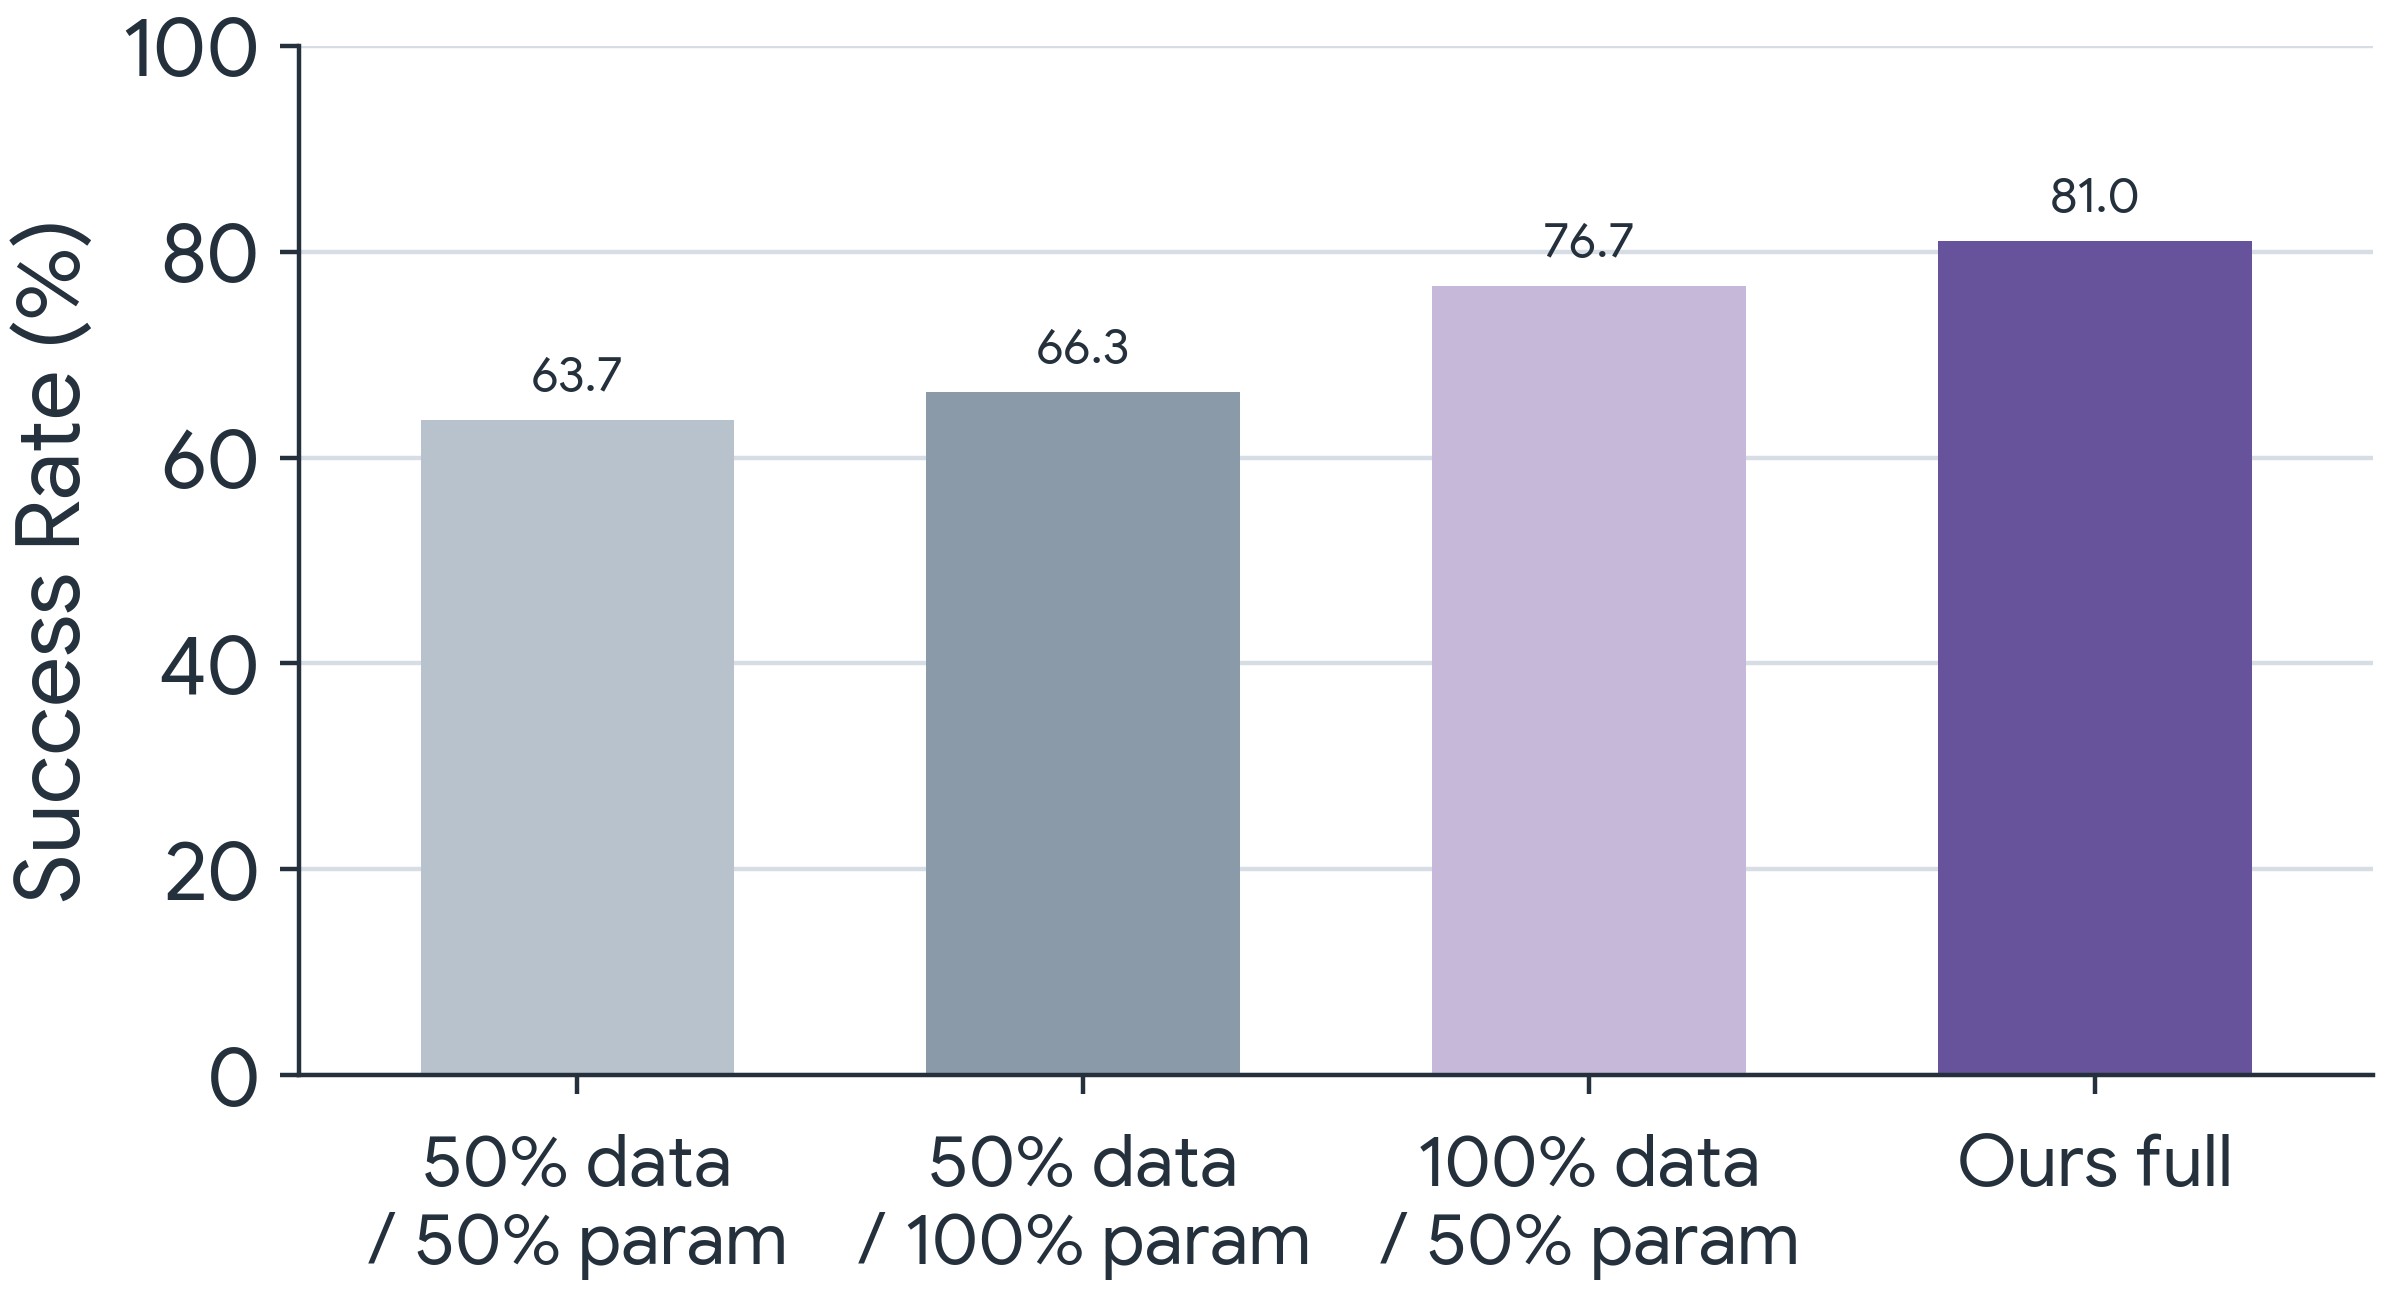
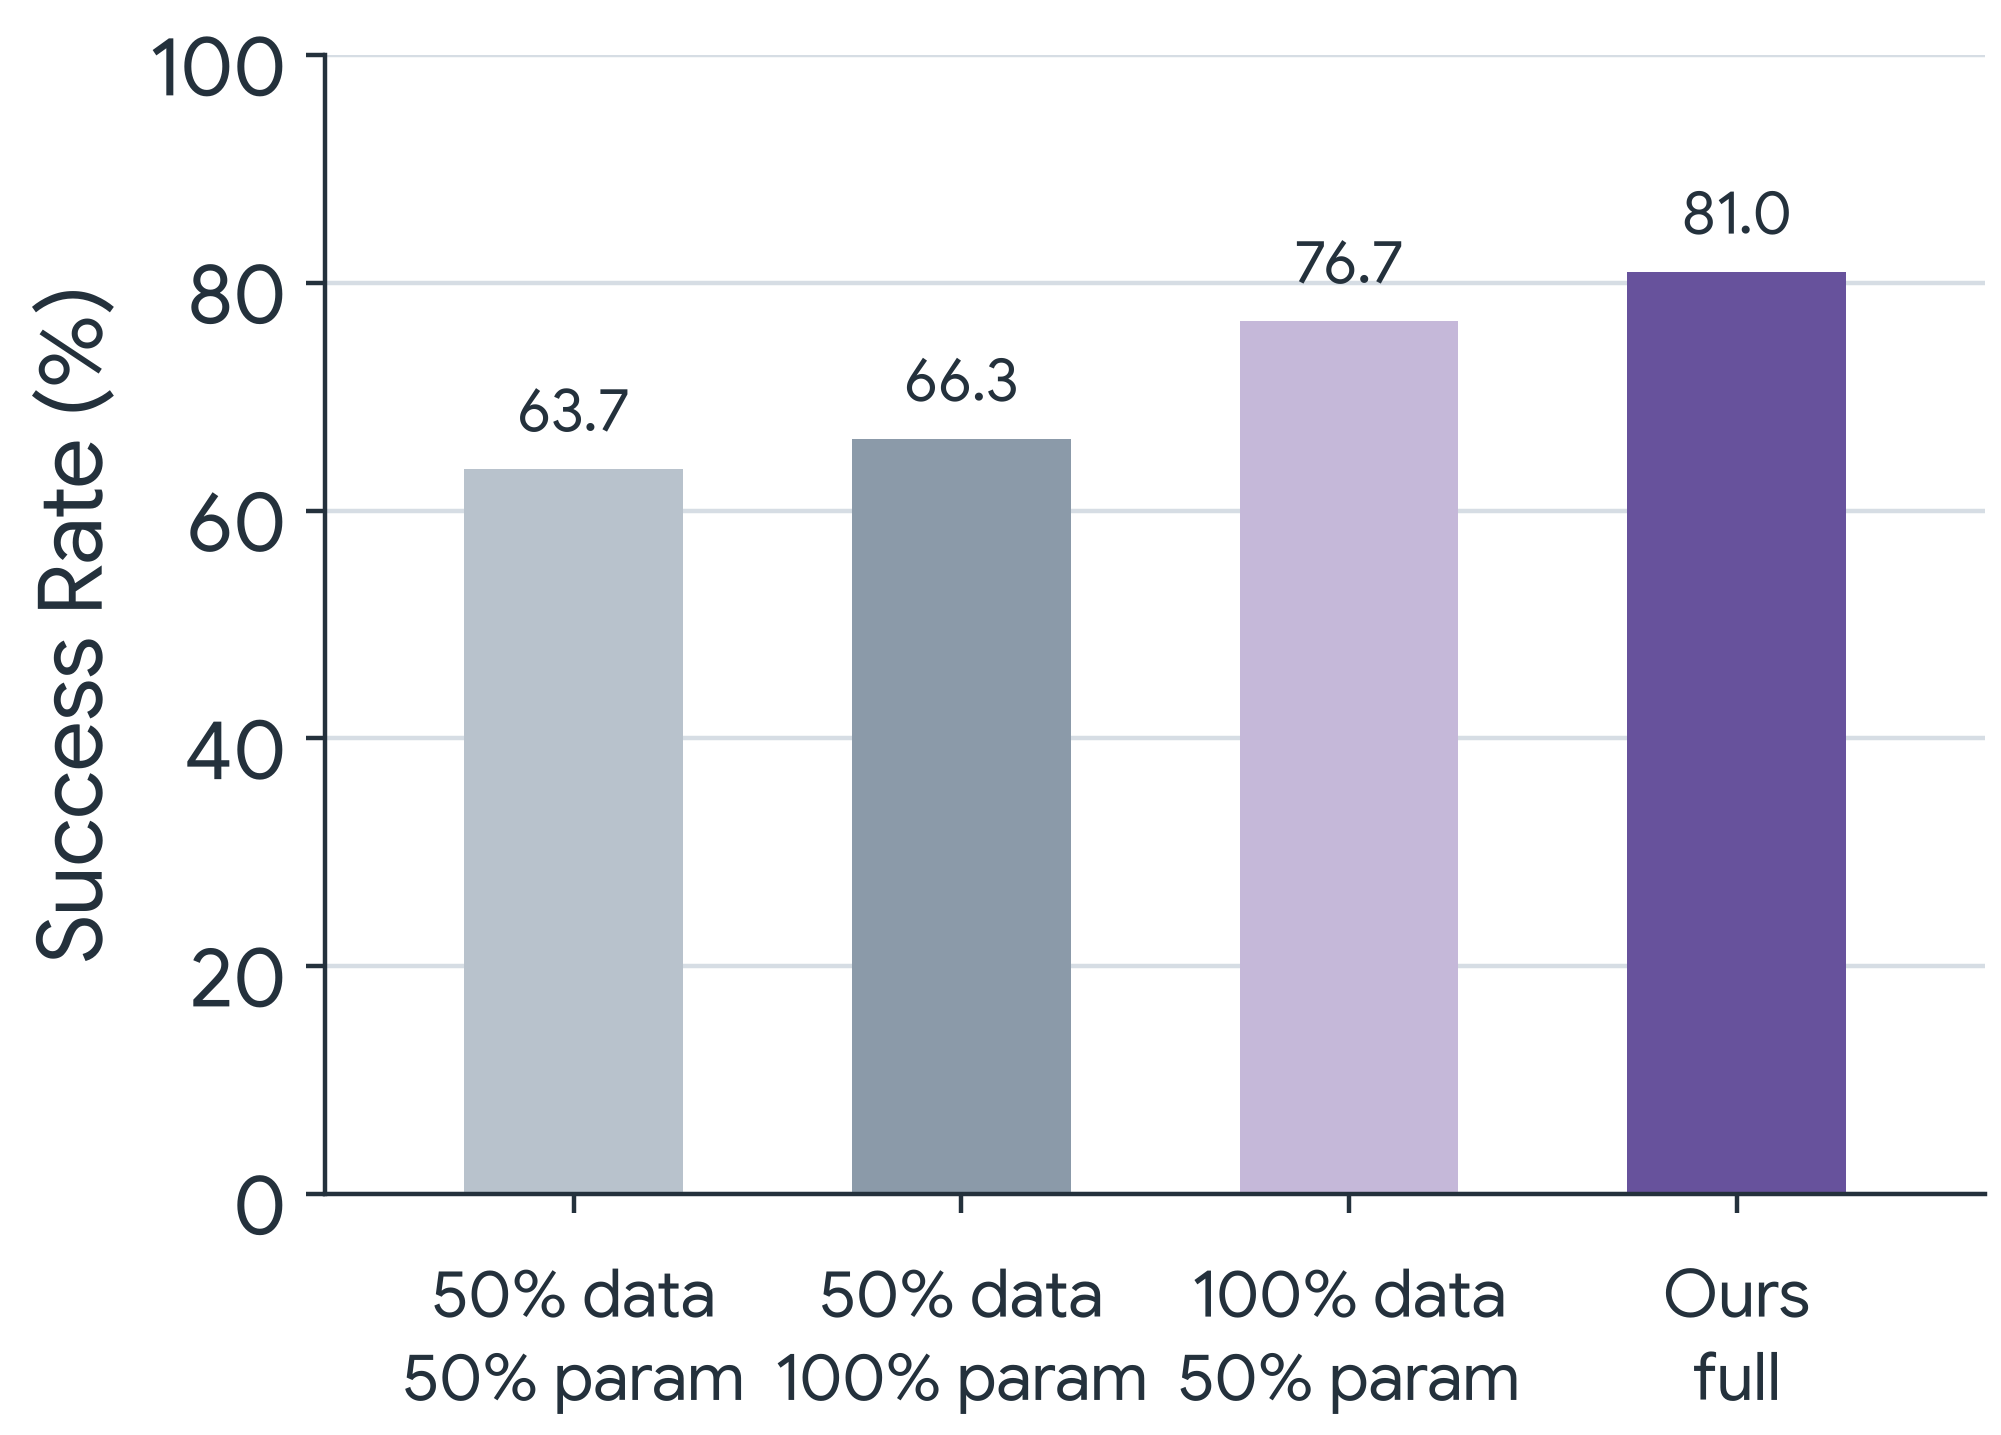
Update

diff --git a/index.html b/index.html
@@ -418,12 +418,14 @@
       <div class="tagline" id="failure-analysis">Failure Analysis</div>
       <div class="section">
         <p>
-          Across real-world evaluations, 82% of failures occur during action execution and only 18% during grasping. UMA reliably infers the correct task intent and grasp, but loses precision over the action
-          rollout &mdash; pointing to larger-scale motion-action paired data, rather than richer task
-          specification, as the most direct way to close the remaining gap.
+          Execution failures dominate at 82% of total errors, with grasping accounting for the remaining 18%.
+          UMA thus reliably identifies the correct task intent and grasp configuration, but loses precision
+          during the action rollout. This aligns with our finding that simulation drives motion-action coupling,
+          pointing toward further scaling of motion-action paired data, rather than richer task specification, as
+          the most direct path to closing the remaining gap.
         </p>
       </div>
-      <figure class="figure-narrow">
+      <figure class="figure-chart" style="max-width: 400px;">
         <img src="static/images/failure_analysis.png" alt="Failure analysis: grasping failures account for 18.33% of errors and execution failures for 81.67%, illustrated with a grasping failure on a brush and an execution failure inserting a utensil into a cup.">
         <p class="figure-caption">
           Breakdown of failure cases by error type.